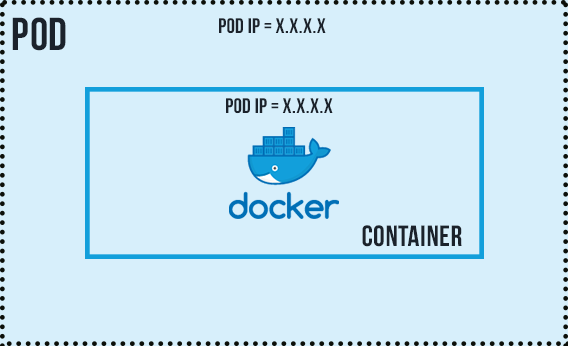
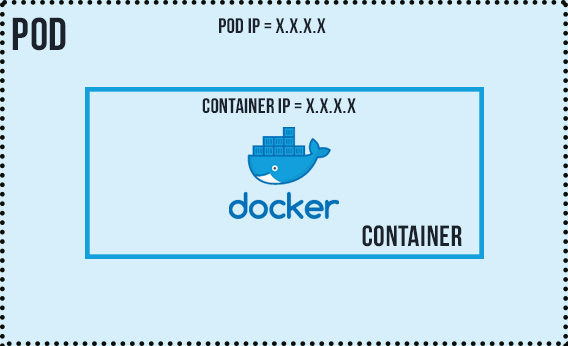
updated

Changed region(s): [[0.3292, 0.2601, 0.6285, 0.3468]]

diff --git a/project_22.md b/project_22.md
@@ -1,6 +1,6 @@
 # Exploring Common Objects in K8s
 
-Pods
+## Pods
 
 A pod is the smallest unit of kubernete cluster. It has a one to one relationship with a container. This means a pod should only hold one container. However, in some case, a pod can hold more than one related containers. To deploy an object in k8s, YAML file manifest is required with specific sections.
 
@@ -55,4 +55,23 @@ k get pod nginx-pod -o yaml
 
 > The nginx image used in the yaml file is was pull from the docker hub, in some cases the intended repo is explicitly stated.
 
+Although, the nginx pod is created it can not be viewed in the browser.Aanother Kubernetes object called ***Service*** is required to expose to the Pod.
+
 ![pods](./images/2.png)
+
+Although, not reliable because of the ephemeral nature of pods, but for internal use only the container can be viewed by using a *curl* container ***dareyregistry/curl***
+
+```bash
+# Run kubectl to connect inside the container
+kubectl run curl --image=dareyregistry/curl -i --tty
+
+# Type curl and your container's ip
+ curl -v 10.244.0.40:80
+```
+
+![pods](./images/3.png)
+
+## Service
+
+An abstract way to expose an application running on a set of Pods as a network service.
+
